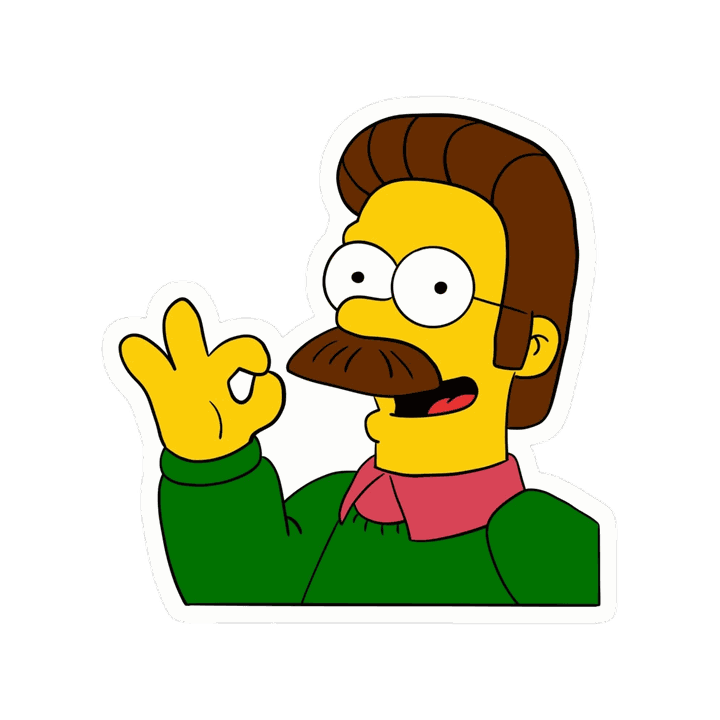
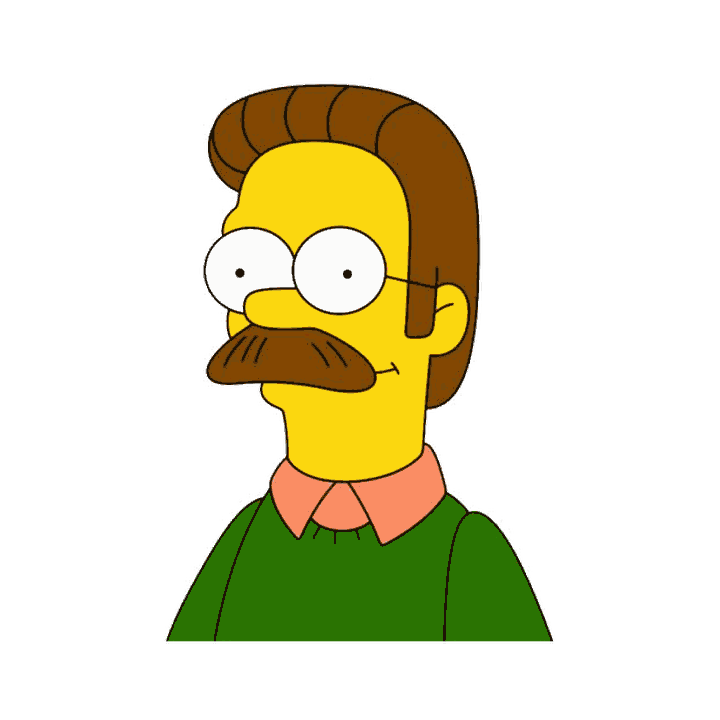
Nueva imagen de Flanders, avatares lg mas grandes, fondo teal-400
- Procesa Ned Flanders_.jfif con padding 14% (fondo blanco eliminado)
- Avatar lg: w-20/w-24 -> w-24/w-28 (subida minima de tamano)
- Fondo circulo de vuelta a bg-teal-400

diff --git a/src/components/shared/Avatar.tsx b/src/components/shared/Avatar.tsx
@@ -14,7 +14,7 @@ interface Props {
 const dimensiones: Record<NonNullable<Props["tamano"]>, string> = {
   sm: "w-10 h-10 text-2xl",
   md: "w-14 h-14 text-2xl sm:w-16 sm:h-16 sm:text-3xl",
-  lg: "w-20 h-20 text-4xl sm:w-24 sm:h-24 sm:text-5xl",
+  lg: "w-24 h-24 text-4xl sm:w-28 sm:h-28 sm:text-5xl",
   xl: "w-36 h-36 text-6xl sm:w-44 sm:h-44 sm:text-7xl md:w-48 md:h-48 md:text-8xl"
 };
 
@@ -32,7 +32,7 @@ export function Avatar({ avatarId, tamano = "md", flotando, className, style }: 
         "shadow-candySm ring-4 ring-white transition-transform duration-200",
         "hover:scale-110 hover:animate-meneo",
         // Fondo turquesa detrás del personaje (los amarillos como Homero/Bart/Lisa destacan).
-        "bg-teal-700",
+        "bg-teal-400",
         dimensiones[tamano],
         flotando && "animate-flotar",
         className

diff --git a/scripts/remover_fondo.py b/scripts/remover_fondo.py
@@ -38,7 +38,7 @@ BATCH = [
     ("personajes/milhouse.png",                                 "public/personajes/milhouse.png", False, 0.06),
     ("personajes/moe.png",                                      "public/personajes/moe.png",      False, 0.06),
     ("personajes/nelson.png",                                   "public/personajes/nelson.png",   False, 0.06),
-    ("personajes/_Okily Dokily!_ Flanders Sticker.jfif",        "public/personajes/flanders.png", True,  0.18),
+    ("personajes/Ned Flanders_.jfif",                           "public/personajes/flanders.png", True,  0.14),
     ("personajes/pan berns.jfif",                               "public/personajes/burns.png",    True,  0.18),
 ]
 
